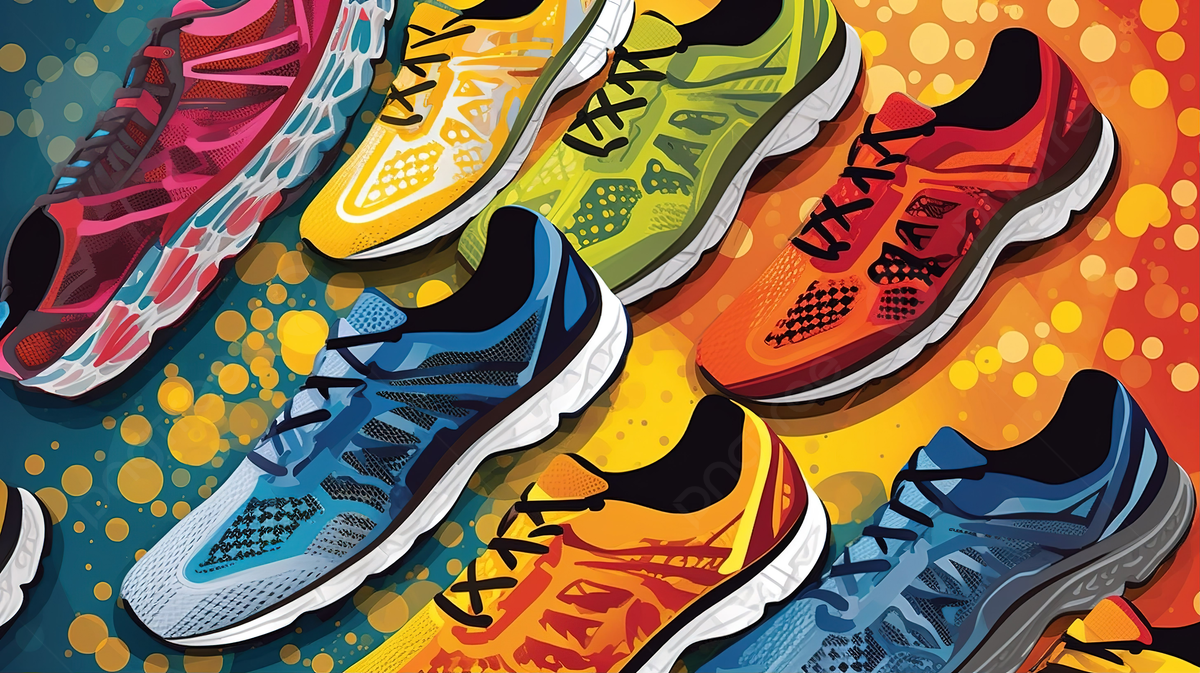
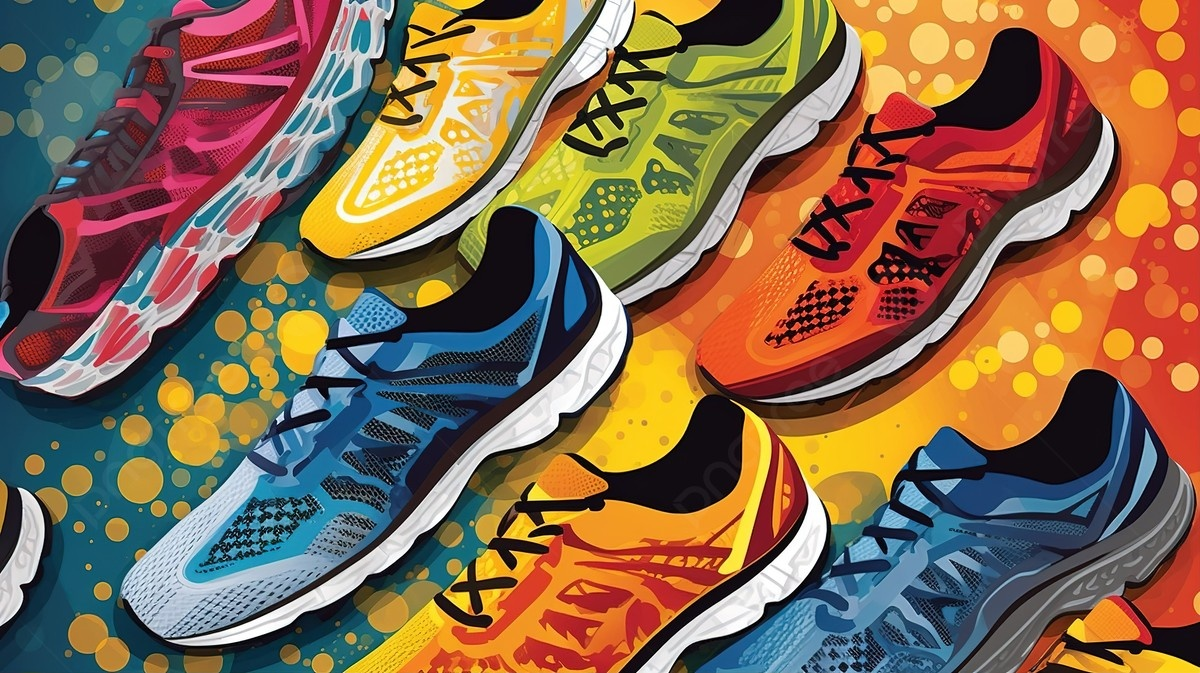
refactor: Update bootsBG image format to JPEG and remove unused Link import.

diff --git a/assets/images/index.ts b/assets/images/index.ts
@@ -1,29 +1,27 @@
-import DeliveryImage from './delivery.png';
-import MoneyImage from './money.png';
-import GoodsImage from './goods.png';
-import SupportImage from './support.png';
-import Logo from './logo.png';
-import Banner from './banner.png';
-import DefaultBG from './defaulBG.jpg';
-import PayHereWhiteLongBanner  from './payhere_long_banner.png';
-import RunningShoeBG from "./runningShoeBg.webp"
-import SlidesBG  from "./slidesBg.jpg"
-import KOKOLogo from "./koko.png"
-import BOOTSBG from "./bootsBG.png"
+import DeliveryImage from "./delivery.png";
+import MoneyImage from "./money.png";
+import GoodsImage from "./goods.png";
+import SupportImage from "./support.png";
+import Logo from "./logo.png";
+import Banner from "./banner.png";
+import DefaultBG from "./defaulBG.jpg";
+import PayHereWhiteLongBanner from "./payhere_long_banner.png";
+import RunningShoeBG from "./runningShoeBg.webp";
+import SlidesBG from "./slidesBg.jpg";
+import KOKOLogo from "./koko.png";
+import BOOTSBG from "./bootsBG.jpeg";
 
-
-export
-{
-    PayHereWhiteLongBanner,
-    DeliveryImage,
-    MoneyImage,
-    GoodsImage,
-    SupportImage,
-    Logo,
-    Banner,
-    DefaultBG,
-    RunningShoeBG,
-    SlidesBG,
-    KOKOLogo,
-    BOOTSBG
+export {
+  PayHereWhiteLongBanner,
+  DeliveryImage,
+  MoneyImage,
+  GoodsImage,
+  SupportImage,
+  Logo,
+  Banner,
+  DefaultBG,
+  RunningShoeBG,
+  SlidesBG,
+  KOKOLogo,
+  BOOTSBG,
 };

diff --git a/app/(site)/loading.tsx b/app/(site)/loading.tsx
@@ -3,7 +3,7 @@
 import { motion } from "framer-motion";
 
 const Loading = () => {
-  const dots = Array.from({ length: 5 }); // More dots for a smooth wave
+  const dots = Array.from({ length: 5 });
 
   return (
     <main className="fixed inset-0 z-50 flex items-center justify-center bg-white">
@@ -13,15 +13,15 @@ const Loading = () => {
             key={index}
             className="h-5 w-5 rounded-full bg-primary"
             animate={{
-              y: [0, -12, 0],         // smooth bounce
-              scale: [1, 1.3, 1],     // subtle scale for fluid effect
-              opacity: [0.7, 1, 0.7], // fade for depth
+              y: [0, -12, 0],
+              scale: [1, 1.3, 1],
+              opacity: [0.7, 1, 0.7],
             }}
             transition={{
               duration: 0.8,
               ease: "easeInOut",
               repeat: Infinity,
-              delay: index * 0.15,     // stagger for wave
+              delay: index * 0.15,
             }}
           />
         ))}

diff --git a/app/(site)/components/Hero.tsx b/app/(site)/components/Hero.tsx
@@ -1,6 +1,5 @@
 "use client";
 import ImagesSlider from "@/app/(site)/components/ImagesSlider";
-import Link from "next/link";
 import { Slide } from "@/interfaces";
 import { collectionList } from "@/constants";
 import CollectionCard from "@/app/(site)/components/CollectionCard";
